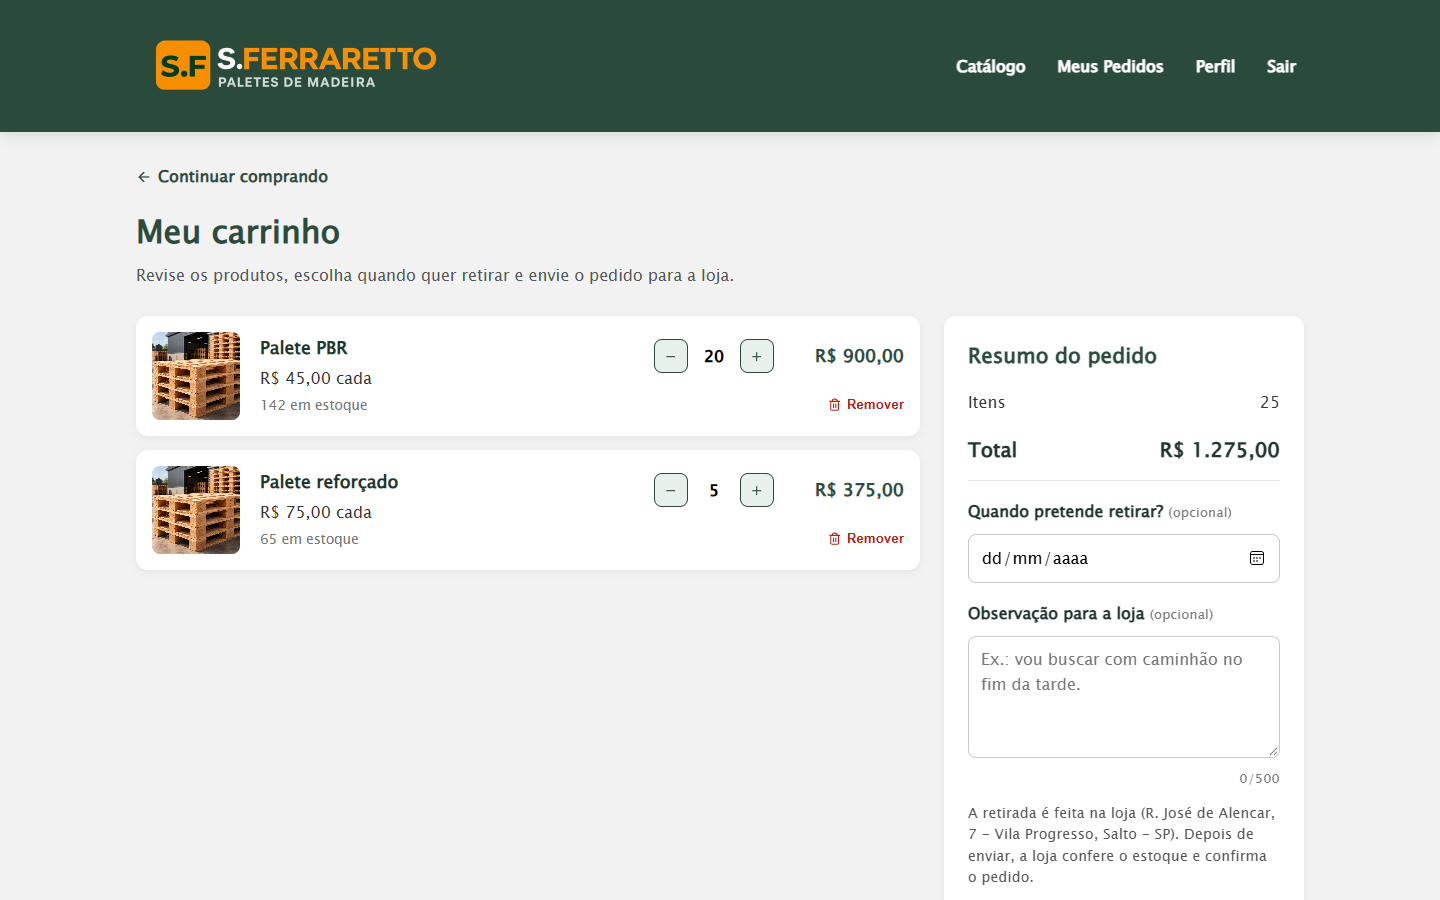
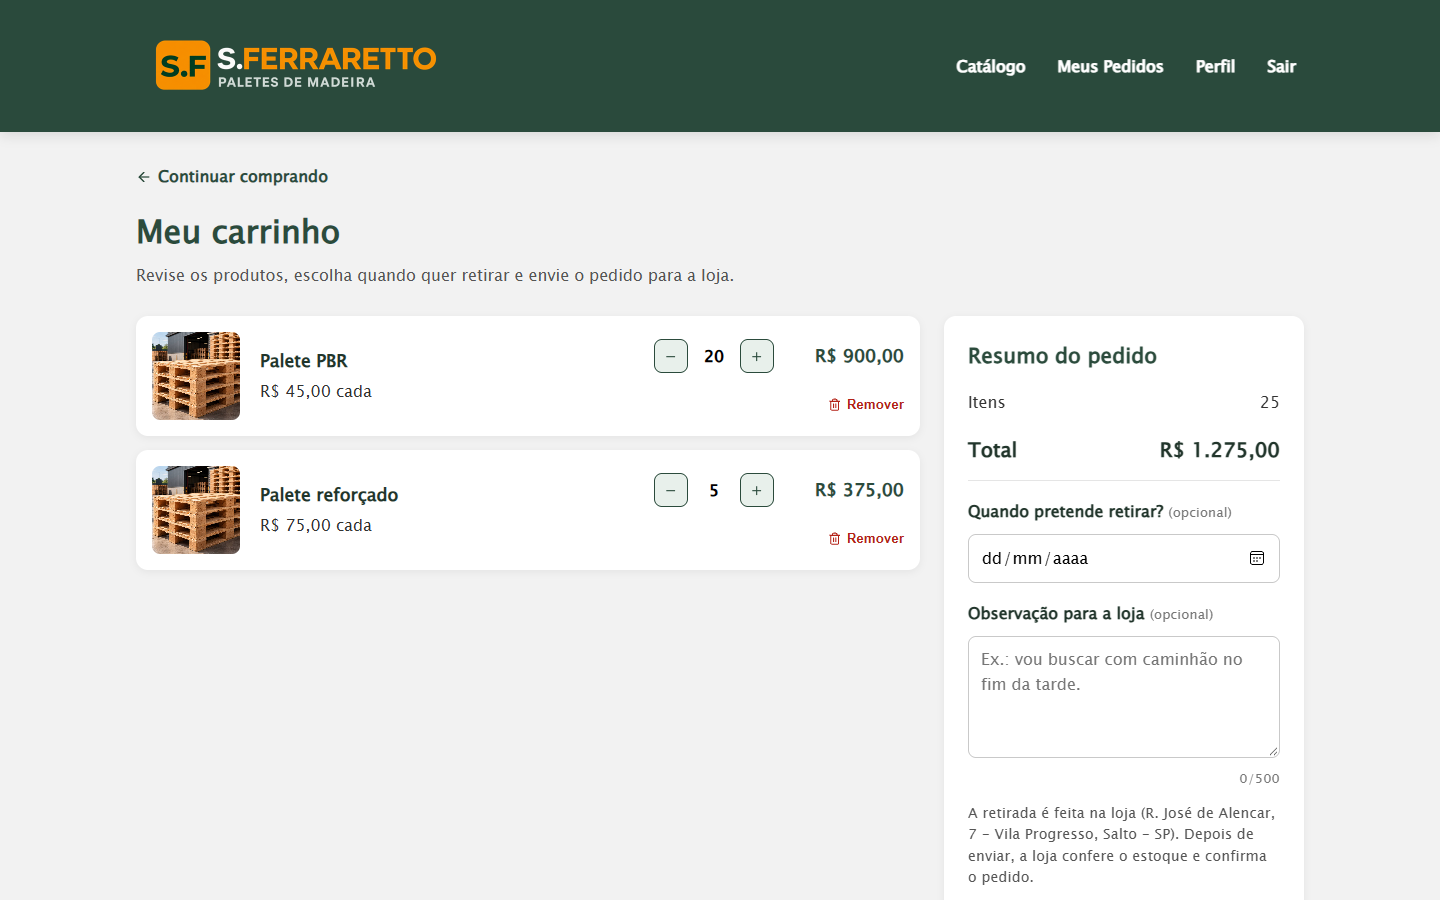
docs: atualizar README, roteiros e prints sem a quantidade em estoque

Changed region(s): [[0.1562, 0.5289, 0.2812, 0.6222], [0.1562, 0.3733, 0.25, 0.4667]]

diff --git a/docs/roteiro-de-teste.md b/docs/roteiro-de-teste.md
@@ -4,7 +4,7 @@ Passo a passo para conferir o sistema inteiro, do visitante ao administrador, us
 
 Siga **na ordem**: cada parte usa o que a anterior criou. Os valores esperados valem para um banco recém-criado com `schema.sql` + `seed.sql`.
 
-> Este roteiro foi executado de ponta a ponta em 21/11/2026, num banco recém-criado com o seed, e repetido inteiro (partes A a I, inclusive o celular em 390 × 844) no teste final da Etapa 12, também em 21/11/2026. Os resultados abaixo são os que apareceram na tela.
+> Este roteiro foi executado de ponta a ponta em 21/11/2026, num banco recém-criado com o seed, e repetido inteiro (partes A a I, inclusive o celular em 390 × 844) no teste final da Etapa 12, também em 21/11/2026. Em 22/11/2026 o catálogo deixou de mostrar a quantidade em estoque (só o administrador vê o número), e os passos A6–A10 e C2–C4 foram refeitos com essa mudança. Os resultados abaixo são os que apareceram na tela.
 
 ---
 
@@ -39,11 +39,11 @@ Siga **na ordem**: cada parte usa o que a anterior criou. Os valores esperados v
 | A3 | Olhar o rodapé | Telefone, e-mail, endereço, link do WhatsApp, razão social e CNPJ. **Sem** redes sociais | |
 | A4 | Clicar em **Falar no WhatsApp** | Abre o WhatsApp (`wa.me/5511964992626`) em outra aba | |
 | A5 | Ir em **Catálogo** | 4 produtos, **sem pedir login**: descartável R$ 25,00, PBR R$ 45,00, plástico R$ 120,00, reforçado R$ 75,00 | |
-| A6 | Clicar em **Saber mais** no Palete PBR | Janela "Palete PBR" com descrição, preço, "Em estoque: 142 unidades" e "Voltar ao catálogo". Fecha com **Esc** | |
-| A7 | No Palete plástico, digitar **50** na quantidade e sair do campo | O número volta para **9** (não deixa passar do estoque) | |
-| A8 | No Palete PBR, digitar **10** e clicar **Adicionar ao carrinho** | Aviso "10x Palete PBR adicionado ao carrinho." e botão flutuante **Carrinho (10)** | |
-| A9 | Clicar em **Carrinho (10)** | Janela "Meu Carrinho": PBR 10 un., subtotal R$ 450,00, botão **Ir para o carrinho e finalizar** | |
-| A10 | Clicar em **Ir para o carrinho e finalizar** | Página `/carrinho` com o PBR, "142 em estoque", total R$ 450,00, campos de data e observação e o botão **Entrar para finalizar** | |
+| A6 | Clicar em **Saber mais** no Palete PBR | Janela "Palete PBR" com descrição, preço, "Disponível para pedido" (**sem** o número do estoque, que é só do administrador) e "Voltar ao catálogo". Fecha com **Esc** | |
+| A7 | No Palete plástico, digitar **50** na quantidade e clicar **Adicionar ao carrinho** | Aviso "50x Palete plástico adicionado ao carrinho." e botão flutuante **Carrinho (50)**. A tela não mostra nem limita pelo estoque: quem confere é o servidor, ao enviar (passo C3) | |
+| A8 | No Palete PBR, digitar **10** e clicar **Adicionar ao carrinho** | Aviso "10x Palete PBR adicionado ao carrinho." e botão **Carrinho (60)** | |
+| A9 | Clicar em **Carrinho (60)** | Janela "Meu Carrinho": plástico 50 un. (R$ 6.000,00) e PBR 10 un. (R$ 450,00), valor total R$ 6.450,00, botão **Ir para o carrinho e finalizar** | |
+| A10 | Clicar em **Ir para o carrinho e finalizar** | Página `/carrinho` com os dois produtos (sem quantidade em estoque), total R$ 6.450,00, campos de data e observação e o botão **Entrar para finalizar** | |
 | A11 | Clicar em **Entrar para finalizar** | Aviso "Entre na sua conta (ou crie uma) para finalizar o pedido. Seu carrinho fica guardado." → **OK** leva ao login | |
 | A12 | Abrir um endereço que não existe (ex.: `/xyz`) | Página **404** "Página não encontrada" com botão para voltar | |
 
@@ -60,13 +60,14 @@ Siga **na ordem**: cada parte usa o que a anterior criou. Os valores esperados v
 | # | Passo | Resultado esperado | ✓ |
 |:-:|-------|--------------------|:-:|
 | C1 | Entrar com senha errada | Alerta "E-mail ou senha inválidos." | |
-| C2 | Entrar com `Cliente@123456` (vindo do carrinho, passo A11) | Volta **direto para o carrinho**, com o PBR ainda lá | |
-| C3 | Escolher uma data de retirada (ex.: depois de amanhã), escrever "Vou buscar com caminhão no fim da tarde." e clicar **Enviar pedido** | "Pedido nº 16 enviado! A loja vai conferir o estoque e confirmar." → **OK** abre Meus Pedidos | |
-| C4 | Conferir **Meus Pedidos** | "4 registros": nº 16 (R$ 450,00, Aguardando confirmação, com a data escolhida), nº 15 (pendente), nº 12 (Confirmado) e nº 7 (Entregue) | |
-| C5 | Clicar em **Cancelar** no nº 15 → **Confirmar** | O nº 15 vira **Cancelado** e o botão some. Os pedidos confirmados e entregues não têm botão | |
-| C6 | Digitar `/admin` na barra de endereço | Volta para o catálogo com o aviso "Área restrita para administradores." | |
-| C7 | Abrir **Perfil**, trocar o nome para **Cliente Teste da Silva** e clicar no botão **✓** que aparece embaixo do campo | "Nome atualizado com sucesso!" (o botão **Salvar** de baixo é só para trocar a senha; o e-mail não muda por aqui) | |
-| C8 | Clicar em **Sair** | Vai para a tela de login. Abrir `/clientePedidos` depois disso também manda para o login | |
+| C2 | Entrar com `Cliente@123456` (vindo do carrinho, passo A11) | Volta **direto para o carrinho**, com os dois produtos ainda lá | |
+| C3 | Clicar em **Enviar pedido** (com os 50 plásticos) | Erro: *No momento não temos essa quantidade de "Palete plástico". Diminua a quantidade ou fale com a loja pelo WhatsApp.* O número do estoque **não aparece**, e o pedido não é criado | |
+| C4 | Clicar em **Remover** no Palete plástico, escolher uma data de retirada (ex.: depois de amanhã), escrever "Vou buscar com caminhão no fim da tarde." e clicar **Enviar pedido** | "Pedido nº 16 enviado! A loja vai conferir o estoque e confirmar." → **OK** abre Meus Pedidos | |
+| C5 | Conferir **Meus Pedidos** | "4 registros": nº 16 (R$ 450,00, Aguardando confirmação, com a data escolhida), nº 15 (pendente), nº 12 (Confirmado) e nº 7 (Entregue) | |
+| C6 | Clicar em **Cancelar** no nº 15 → **Confirmar** | O nº 15 vira **Cancelado** e o botão some. Os pedidos confirmados e entregues não têm botão | |
+| C7 | Digitar `/admin` na barra de endereço | Volta para o catálogo com o aviso "Área restrita para administradores." | |
+| C8 | Abrir **Perfil**, trocar o nome para **Cliente Teste da Silva** e clicar no botão **✓** que aparece embaixo do campo | "Nome atualizado com sucesso!" (o botão **Salvar** de baixo é só para trocar a senha; o e-mail não muda por aqui) | |
+| C9 | Clicar em **Sair** | Vai para a tela de login. Abrir `/clientePedidos` depois disso também manda para o login | |
 
 ## D. Administrador: pedidos (`admin@teste.com`, janela anônima)
 
@@ -74,7 +75,7 @@ Siga **na ordem**: cada parte usa o que a anterior criou. Os valores esperados v
 |:-:|-------|--------------------|:-:|
 | D1 | Entrar com `Admin@123456` | Cai no **Dashboard** (`/admin`), não no catálogo | |
 | D2 | Conferir os cartões | **Pedidos pendentes 3** (13, 14 e 16) · **A retirar hoje 2** · **Estoque baixo 1** (Palete plástico: 9 un.) · **Vendas de novembro R$ 725,00** (2 pedidos entregues; o cartão mostra o nome do mês atual) | |
-| D3 | Em "Pedidos em andamento", conferir o nº 16 | Cliente Teste da Silva (nome trocado no C7), a observação do cliente, a data de retirada, 10 unidades, R$ 450,00, "Aguardando confirmação" | |
+| D3 | Em "Pedidos em andamento", conferir o nº 16 | Cliente Teste da Silva (nome trocado no C8), a observação do cliente, a data de retirada, 10 unidades, R$ 450,00, "Aguardando confirmação" | |
 | D4 | Clicar em **10 unidades** | Janela "Produtos do pedido nº 16": Palete PBR, quantidade 10, R$ 45,00, valor total R$ 450,00 | |
 | D5 | Clicar em **Confirmar** no nº 16 | Aviso "Pedido nº 16 confirmado (estoque baixado)." · pendentes passa a **2** · status **Confirmado** com botões **Marcar pronto** e **Cancelar** | |
 | D6 | Clicar em **Marcar pronto** | "Pedido nº 16 marcado como pronto para retirada." · botões **Entregue** e **Cancelar** | |
@@ -127,6 +128,7 @@ Pode ser feito pelos arquivos `.http` de [`backend/requests/`](../backend/reques
 | H4 | `POST /usuarios` com e-mail inválido | `400` "Dados inválidos" com os detalhes | |
 | H5 | 6 logins errados seguidos (**faça por último**) | Do 1º ao 5º: `401`. No 6º: `429` "Muitas tentativas de login...". O limite conta **todas** as senhas erradas dos últimos 15 minutos, inclusive a do passo C1: se o C1 foi há menos de 15 minutos, o `429` já aparece na 5ª tentativa. Depois disso, **nenhum login funciona nesse computador por 15 minutos** (ou até reiniciar o back-end) | |
 | H6 | Chamada vinda de outro site (cabeçalho `Origin` diferente do `CORS_ORIGIN`) | `403` "Acesso não permitido a partir deste endereço." | |
+| H7 | `GET /produtos` e `GET /produtos/:id` sem login | Cada produto vem com `disponivel: true/false` e **sem** `quantidade_estoque` (o número só aparece nas rotas de admin, como `/produtos/todos` e `/estoque`) | |
 
 ## I. Celular
 

diff --git a/README.md b/README.md
@@ -109,7 +109,7 @@ Na entrevista com o cliente, identificamos três dores principais:
 - 🔑 Cadastro, login e edição de perfil
 - 🛍 Catálogo de paletes aberto (sem login), com quantidade e carrinho direto no card
 - 🛒 Página do carrinho (`/carrinho`) com data de retirada e observação
-- 📝 Realização de **pedidos** a partir do carrinho (estoque conferido na hora)
+- 📝 Realização de **pedidos** a partir do carrinho (estoque conferido na hora, sem mostrar a quantidade: o cliente vê só "Disponível" ou "Esgotado")
 - 🔎 Acompanhamento do status dos pedidos (histórico completo)
 - ❌ Cancelamento de pedidos enquanto aguardam confirmação
 
@@ -368,14 +368,14 @@ Rotas marcadas com 🔒 exigem o header `Authorization: Bearer <token>`.
 
 | Método | Rota | Descrição | Auth |
 |:------:|------|-----------|:----:|
-| 🟢 `GET` | `/produtos` | Catálogo: lista os produtos **ativos** | 🌐 |
-| 🟢 `GET` | `/produtos/:id` | Detalhes de um produto ativo (`404` se não existir ou estiver desativado) | 🌐 |
-| 🟢 `GET` | `/produtos/todos` | Lista todos os produtos, inclusive os desativados | 🔒 admin |
+| 🟢 `GET` | `/produtos` | Catálogo: lista os produtos **ativos** com `disponivel: true/false` (sem a quantidade em estoque) | 🌐 |
+| 🟢 `GET` | `/produtos/:id` | Detalhes de um produto ativo, com `disponivel` e sem a quantidade (`404` se não existir ou estiver desativado) | 🌐 |
+| 🟢 `GET` | `/produtos/todos` | Lista todos os produtos, inclusive os desativados, com `quantidade_estoque` | 🔒 admin |
 | 🔵 `POST` | `/produtos` | Cadastrar produto `{ nome, descricao, preco, quantidade, imagem? }` → `201 { id }` | 🔒 admin |
 | 🟣 `PUT` | `/produtos/:id` | Editar produto (mesmo corpo do cadastro) → `204` | 🔒 admin |
 | 🟠 `PATCH` | `/produtos/:id/ativo` | Ativar/desativar `{ "ativo": false }` → `204` | 🔒 admin |
 
-Produtos não são apagados: desativar tira o produto do catálogo, mas preserva pedidos, vendas e notas antigos. O campo `imagem` guarda só o nome do arquivo da pasta `backend/uploads` (servida em `/uploads/<arquivo>`).
+A quantidade em estoque é informação só do administrador: as rotas públicas devolvem apenas `disponivel` (estoque maior que zero). Produtos não são apagados: desativar tira o produto do catálogo, mas preserva pedidos, vendas e notas antigos. O campo `imagem` guarda só o nome do arquivo da pasta `backend/uploads` (servida em `/uploads/<arquivo>`).
 
 </details>
 
@@ -405,7 +405,7 @@ Corpo de `POST /pedidos`:
 ```
 
 - `previsao_busca` (opcional): data `AAAA-MM-DD`, de hoje até 60 dias. `observacao` (opcional): até 500 caracteres.
-- Estoque insuficiente ou produto desativado → `409` com o nome do produto. Produto inexistente → `404`.
+- Estoque insuficiente → `409` ("No momento não temos essa quantidade de ..." com o nome do produto, sem informar o saldo). Produto desativado → `409` com o nome do produto. Produto inexistente → `404`.
 - Status: `pendente → confirmado → pronto_retirada → entregue`, ou `cancelado`. Mudança fora dessa ordem → `409`.
 - **Confirmar** baixa o estoque (saída); **cancelar** um pedido confirmado devolve (entrada); **entregar** registra a venda. Tudo na mesma transação.
 
@@ -634,7 +634,7 @@ Quem decide o acesso é o servidor: o front-end confere o perfil em `GET /usuari
 | 👥 **Cadastro seguro** | O perfil de quem se cadastra é sempre `cliente`, definido no servidor e não pelo cliente da API |
 | 🧱 **Isolamento de dados** | Pedidos são sempre filtrados pelo `cliente_id` do token, então um cliente não acessa dados de outro |
 | 🚪 **Login** | Mensagem genérica ("e-mail ou senha inválidos"), sem revelar qual dos dois está errado |
-| 🙈 **Respostas** | O hash da senha nunca é devolvido pela API; erros inesperados retornam mensagem genérica (`500`) |
+| 🙈 **Respostas** | O hash da senha nunca é devolvido pela API; a quantidade em estoque só aparece nas rotas de admin (o catálogo recebe só `disponivel`); erros inesperados retornam mensagem genérica (`500`) |
 | 🗝 **Segredos** | Credenciais ficam no `.env`, que está no `.gitignore`; o repositório traz apenas o `.env.example` |
 | 🌐 **CORS** | Só o endereço do site (`CORS_ORIGIN` no `.env`) pode chamar a API pelo navegador; outro site recebe `403` |
 | 🛑 **Força bruta** | Depois de **5 tentativas de login erradas em 15 minutos**, o mesmo IP recebe `429` ("Muitas tentativas de login...") até a janela acabar; logins certos não contam (`express-rate-limit`) |

diff --git a/docs/roteiro-de-apresentacao.md b/docs/roteiro-de-apresentacao.md
@@ -58,9 +58,9 @@ Tudo usa os dados de demonstração do [`seed.sql`](../backend/src/database/seed
 |-------|-------|
 | Rolar a tela inicial até o rodapé | "Landing mais direta: produtos, como funciona o pedido, sobre a empresa e o mapa. No rodapé, o CNPJ e o WhatsApp; tiramos as redes sociais." |
 | Clicar em **Ver catálogo** | "O catálogo **abre sem login**: qualquer pessoa vê os produtos e os preços." |
-| **Saber mais** no Palete PBR → **Esc** | "O 'Saber mais' agora serve só para ver os detalhes: descrição, preço e estoque." |
-| No plástico, digitar **50** | "Não dá para pedir mais do que existe: o campo volta para **9**, que é o estoque." |
-| PBR: quantidade **10** → **Adicionar ao carrinho** → **Carrinho (10)** → **Ir para o carrinho e finalizar** | "Escolho a quantidade e coloco no carrinho direto do card. O carrinho mostra o total." |
+| **Saber mais** no Palete PBR → **Esc** | "O 'Saber mais' agora serve só para ver os detalhes: descrição, preço e se está disponível. A quantidade em estoque o cliente não vê: isso é informação só do dono." |
+| No plástico, digitar **50** e **Adicionar ao carrinho** | "O cliente escolhe a quantidade que quiser. Se pedir mais do que a loja tem, o servidor recusa ao enviar, sem revelar o estoque (vamos ver isso logo depois do login)." |
+| PBR: quantidade **10** → **Adicionar ao carrinho** → **Carrinho (60)** → **Ir para o carrinho e finalizar** | "Escolho a quantidade e coloco no carrinho direto do card. O carrinho mostra o total." |
 
 ### 2b. **Gustavo**: cliente com login (2 min)
 
@@ -68,7 +68,8 @@ Tudo usa os dados de demonstração do [`seed.sql`](../backend/src/database/seed
 |-------|-------|
 | Clicar em **Entrar para finalizar** → **OK** | "Para enviar, o site pede login, e **o carrinho fica guardado**." |
 | Entrar com `usuario@gmail.com` / `Cliente@123456` | "Depois do login, ele volta **direto para o carrinho**." |
-| Escolher a data de retirada (depois de amanhã), escrever "Vou buscar com caminhão no fim da tarde." → **Enviar pedido** | "O cliente diz quando vai retirar e deixa um recado para a loja." |
+| Clicar em **Enviar pedido** (com os 50 plásticos) | "Pedi mais plástico do que a loja tem: o servidor recusa com uma mensagem clara e **não revela o estoque**. Quantidade é informação só do dono." |
+| **Remover** o plástico, escolher a data de retirada (depois de amanhã), escrever "Vou buscar com caminhão no fim da tarde." → **Enviar pedido** | "O cliente diz quando vai retirar e deixa um recado para a loja." |
 | Ler o aviso "Pedido nº 16 enviado!" → **OK** | "O pedido entra como **aguardando confirmação**." |
 | Mostrar **Meus Pedidos** | "Aqui o cliente acompanha tudo: confirmado, pronto, entregue. Ele só cancela enquanto o pedido está pendente." |
 
@@ -139,7 +140,7 @@ Tudo usa os dados de demonstração do [`seed.sql`](../backend/src/database/seed
 | Por que não tem pagamento online? | O cliente vende mais para empresas, com retirada na loja e nota no Emitte. O pedido pelo site organiza a venda; o pagamento segue como a loja já faz hoje. | Yuri |
 | Por que tiraram a cotação? | Foi pedido do professor: um fluxo só (pedido) é mais simples para o cliente e para a loja. | Yuri |
 | Como garantem que o estoque não fica errado? | O estoque só muda junto com uma movimentação registrada, dentro de uma **transação** com trava na linha (`FOR UPDATE`): dois admins confirmando ao mesmo tempo não baixam o estoque duas vezes. | Henrique / Antonio |
-| E se o cliente pedir mais do que tem? | A tela não deixa passar do estoque, e o servidor confere de novo na confirmação (responde 409 com o nome do produto). | Davi / Antonio |
+| E se o cliente pedir mais do que tem? | O servidor confere ao criar o pedido e responde `409` "No momento não temos essa quantidade de ...", **sem dizer o saldo**; confere de novo quando o admin confirma. O catálogo nem recebe o número: a API pública devolve só `disponivel`. | Davi / Antonio |
 | Como um administrador é criado? | Por segurança, não existe cadastro de admin pelo site: todo cadastro entra como cliente, e o admin é definido direto no banco. | Antonio |
 | A nota fiscal é emitida pelo sistema? | Não: a emissão oficial continua no Emitte. O sistema guarda o número, o status e o link do PDF, ligados à venda. | Gustavo |
 | Funciona no celular? | Sim, as telas se adaptam (o menu vira ☰ e as tabelas viram cartões). | Davi |
